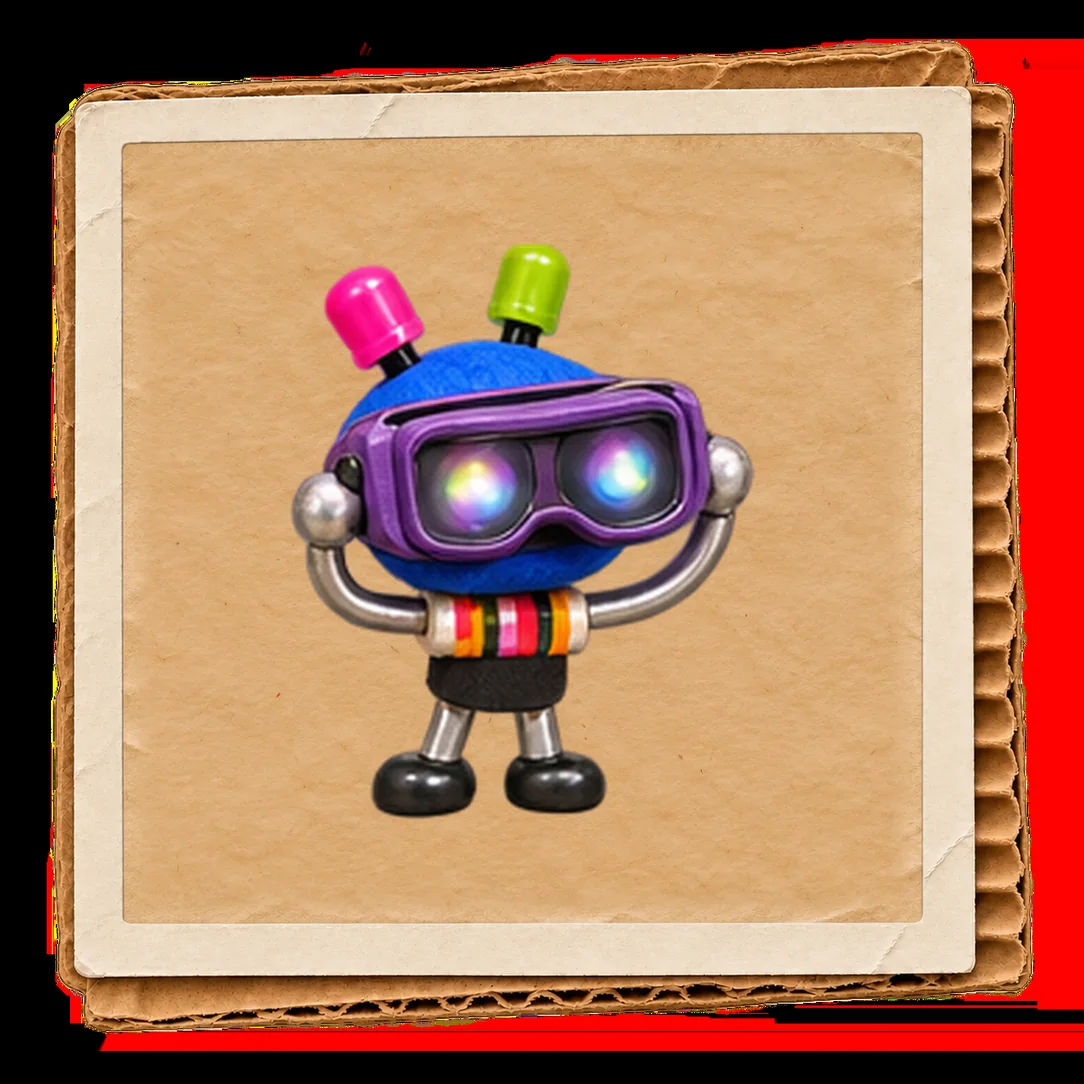
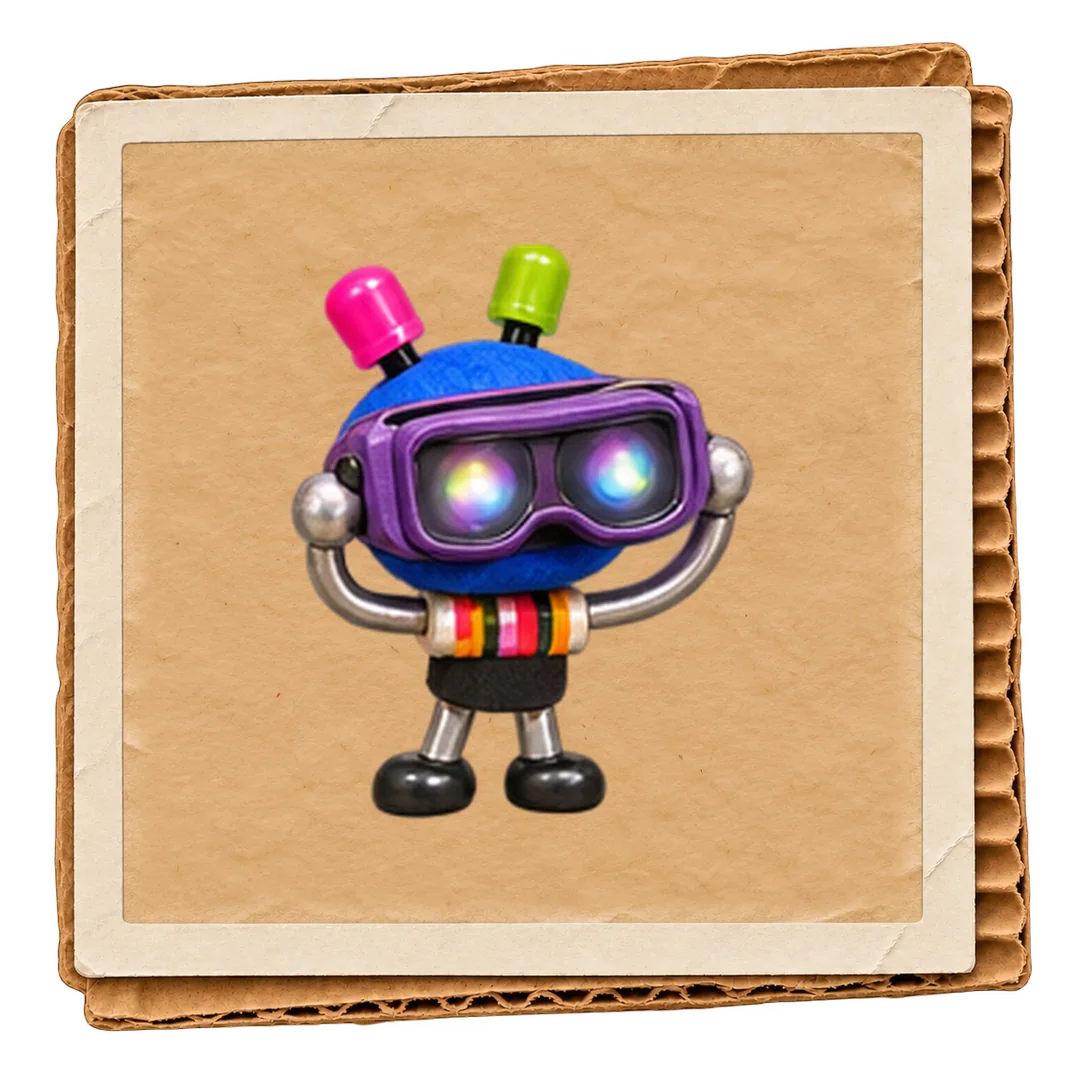
Repair alpha on 22 WebP frames and remove rejected Codey image; CSS untouched

Changed region(s): [[0.0, 0.0, 1.0, 1.0]]

diff --git a/website/qwertylabs/adults.html b/website/qwertylabs/adults.html
@@ -167,7 +167,7 @@
                   </div>
                 <figure class="subpage-art subpage-art--counterclockwise">
                   <span class="subpage-art__media">
-                    <img class="subpage-art__image" src="img/mascot-curated/ql-mix-r03-c06--six-pin-mini-robot.webp" alt="Six Pin with a miniature programmable robot" width="971" height="715" loading="lazy" decoding="async">
+                    <img class="subpage-art__image" src="img/mascot-curated/ql-mix-r03-c03--six-pin-microbit.webp" alt="Six Pin with a BBC micro:bit" width="971" height="715" loading="lazy" decoding="async">
                   </span>
                 </figure>
               </section>
